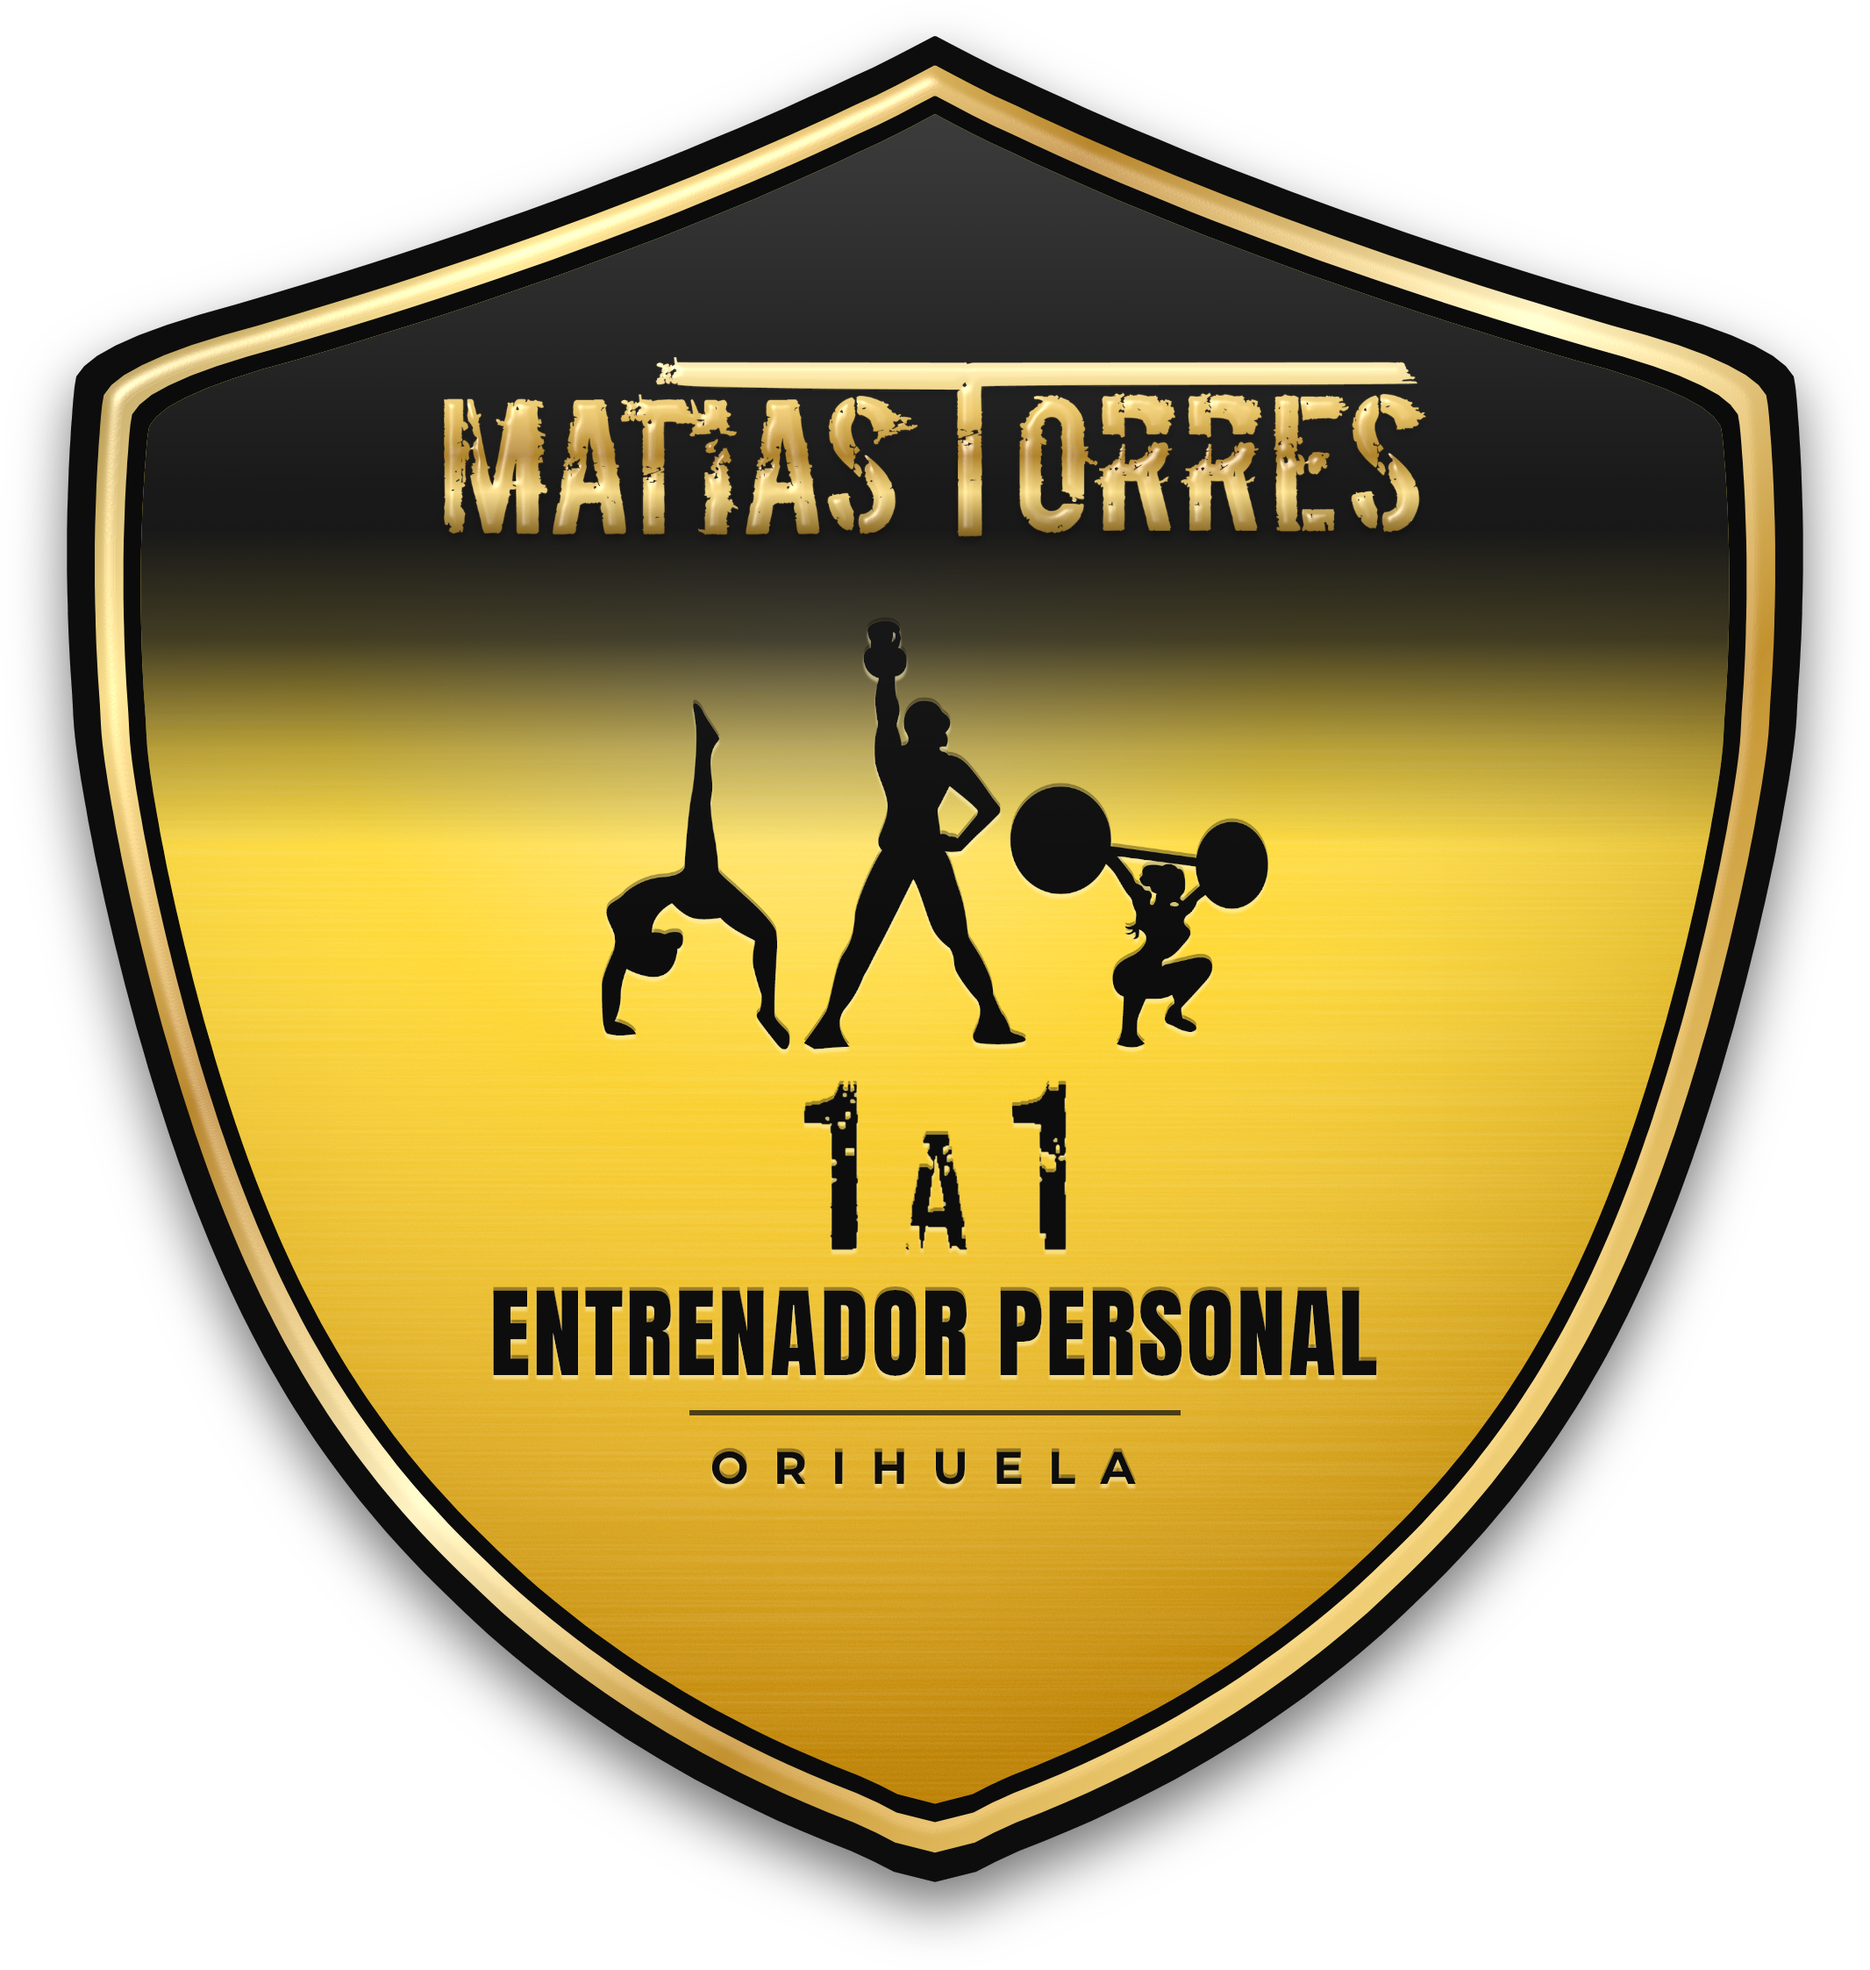
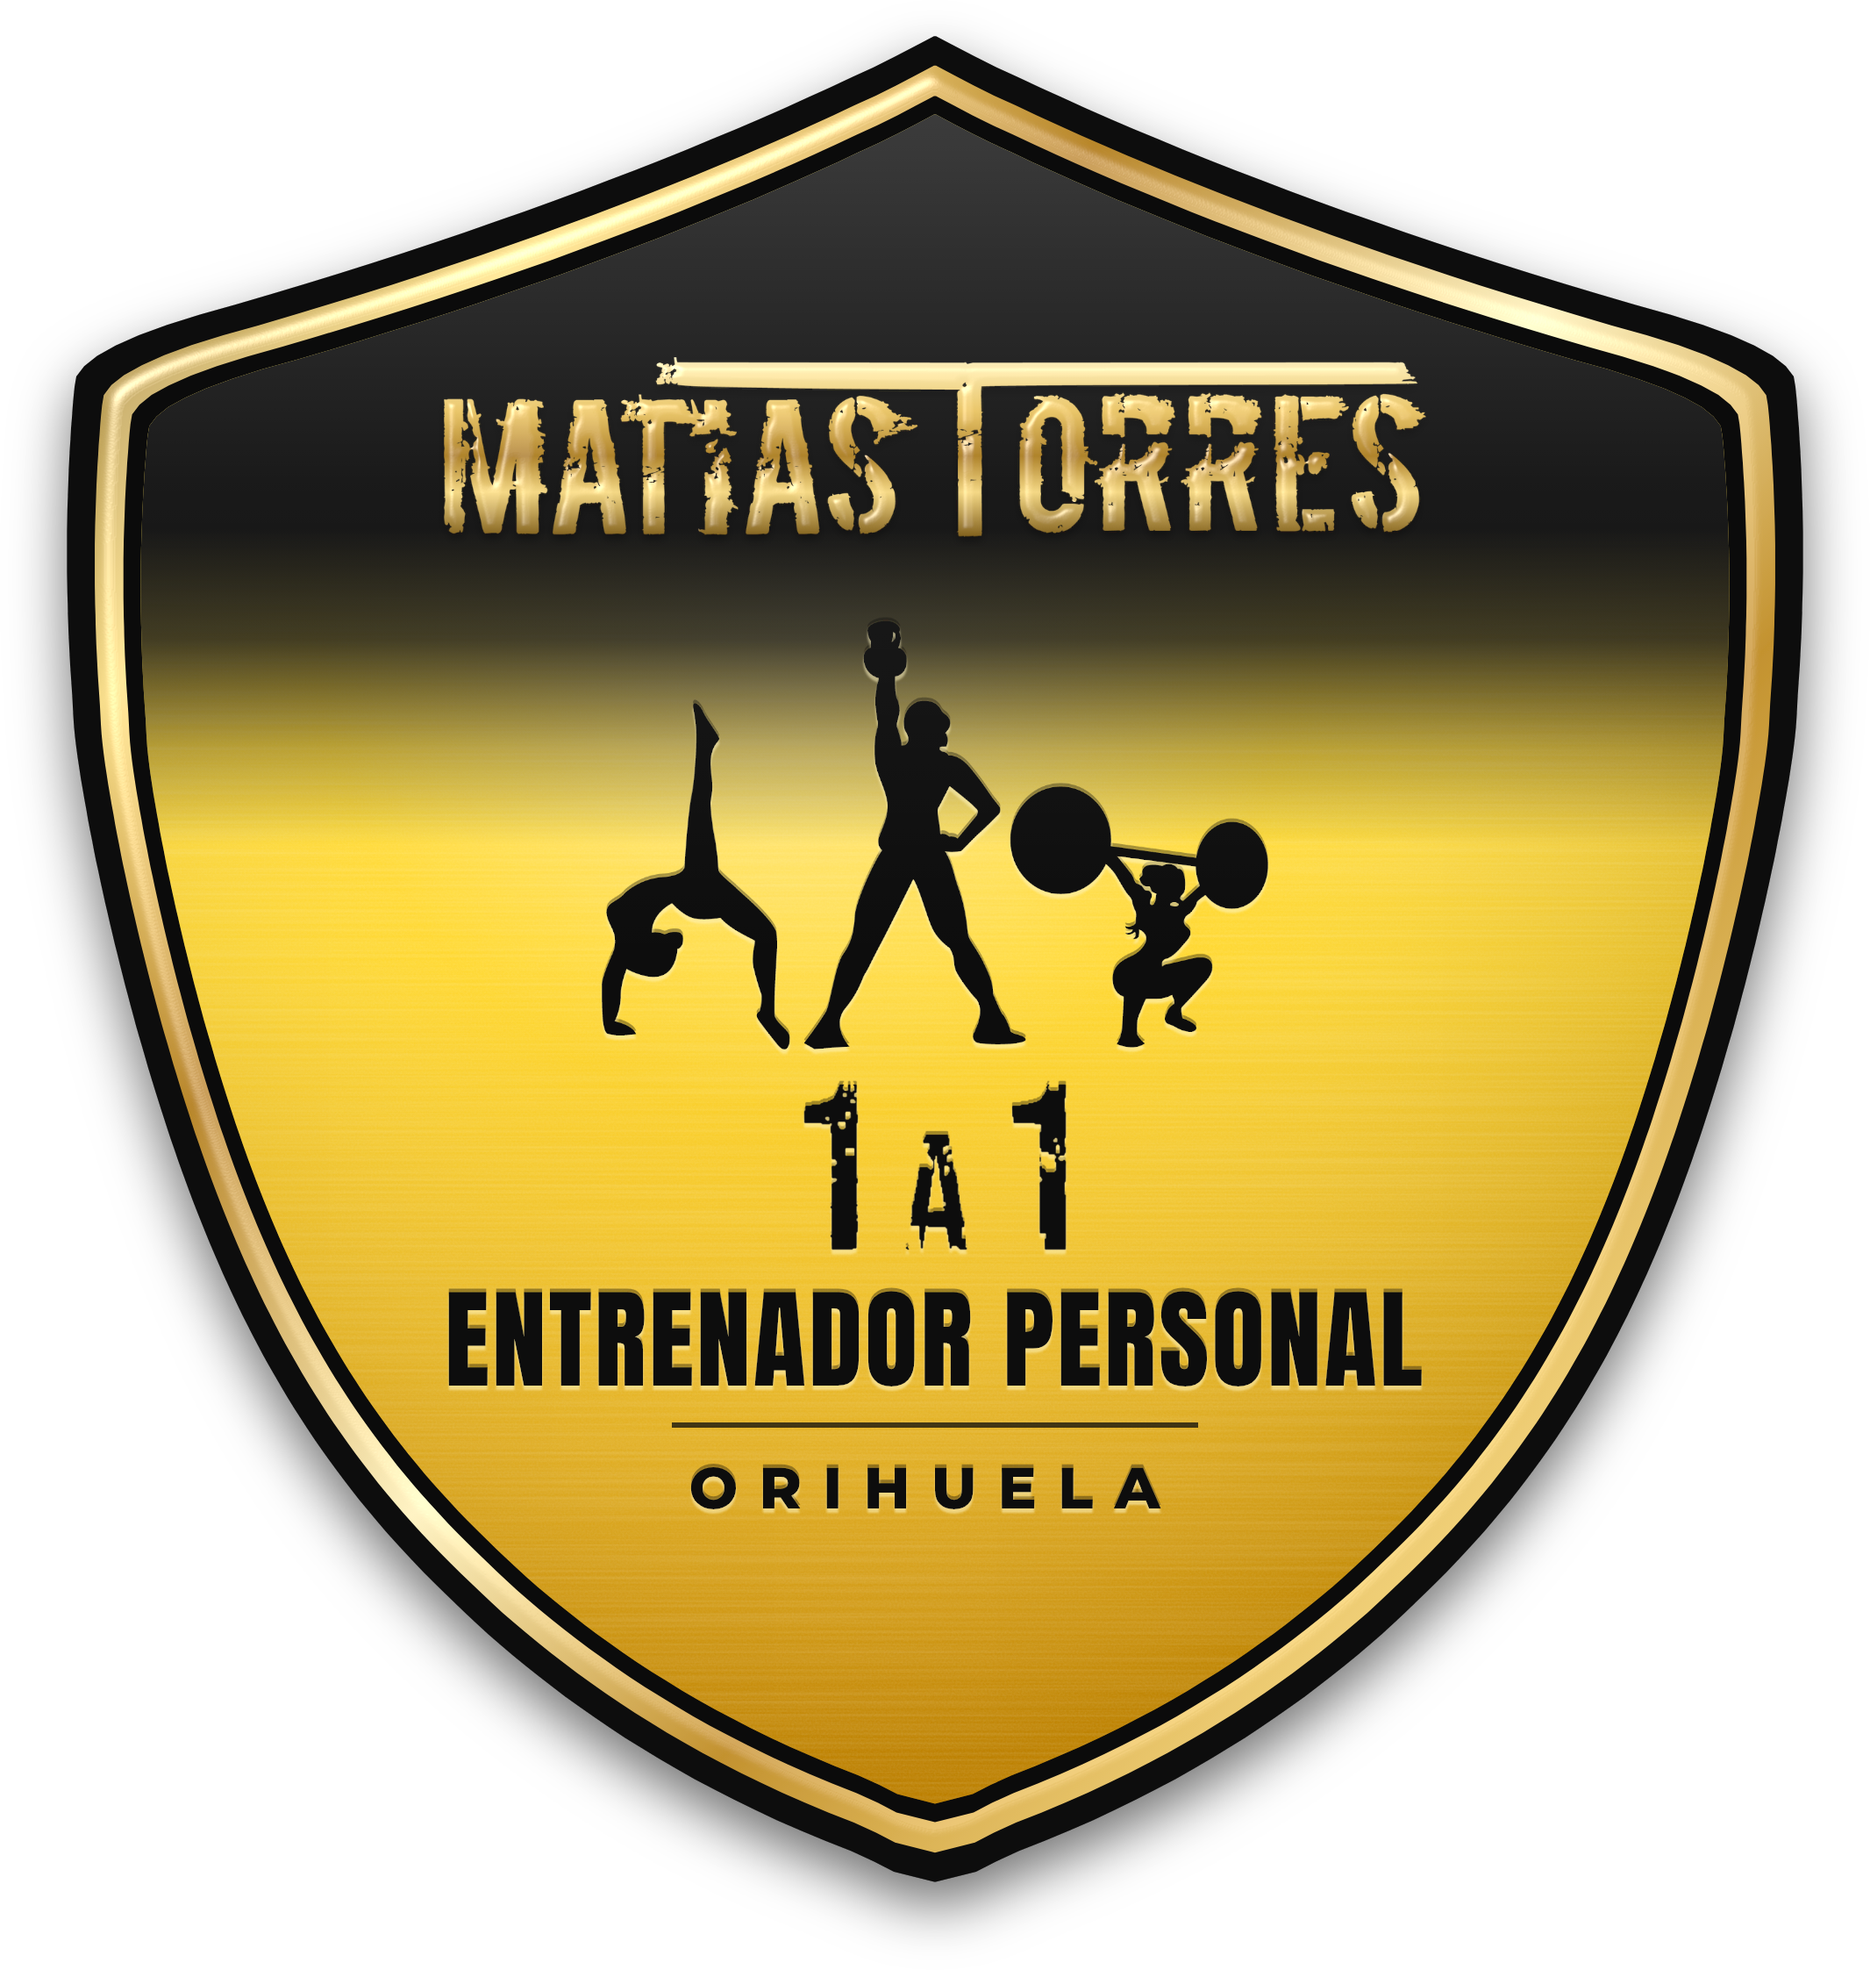
Escudo A: ENTRENADOR PERSONAL y ORIHUELA más grandes y legibles
Claude-Session: https://claude.ai/code/session_01NkzjF2prr94Vio7bqkNGao

Changed region(s): [[0.2167, 0.6548, 0.7739, 0.7795]]

diff --git a/marca/escudos/propuestas-lujo/fusion3.py b/marca/escudos/propuestas-lujo/fusion3.py
@@ -37,9 +37,9 @@ for mode,k,nm in [('deg','A','9a-degradado'),('humo','B','9b-humo')]:
     m,h=art('name','url(#goldV)',600,372,560,'bevelS'); b.append(m)
     m,h=art('fig','#0b0b0b',600,522,380,'sink'); b.append(m)
     m,h=art('one','#0b0b0b',600,786,150,'sink'); b.append(m)
-    b.append(txt('ENTRENADOR PERSONAL',600,952,56,'#0b0b0b',1.5,fam='Anton',weight=400,extra='filter="url(#sink)"'))
-    b.append('<rect x="460" y="972" width="280" height="3" fill="#0b0b0b" opacity=".7"/>')
-    b.append(txt('ORIHUELA',600,1014,26,'#0b0b0b',14,fam='Montserrat',weight=700,extra='filter="url(#sink)"'))
+    b.append(txt('ENTRENADOR PERSONAL',600,958,62,'#0b0b0b',1.5,fam='Anton',weight=400,extra='filter="url(#sink)"'))
+    b.append('<rect x="450" y="979" width="300" height="3" fill="#0b0b0b" opacity=".75"/>')
+    b.append(txt('ORIHUELA',600,1028,33,'#0b0b0b',12,fam='Montserrat',weight=800,extra='filter="url(#sink)"'))
     finish(b,nm)
 
 for mode,k,nm in [('deg','C','9c-degradado-invertido'),('humo','D','9d-humo-invertido')]:
